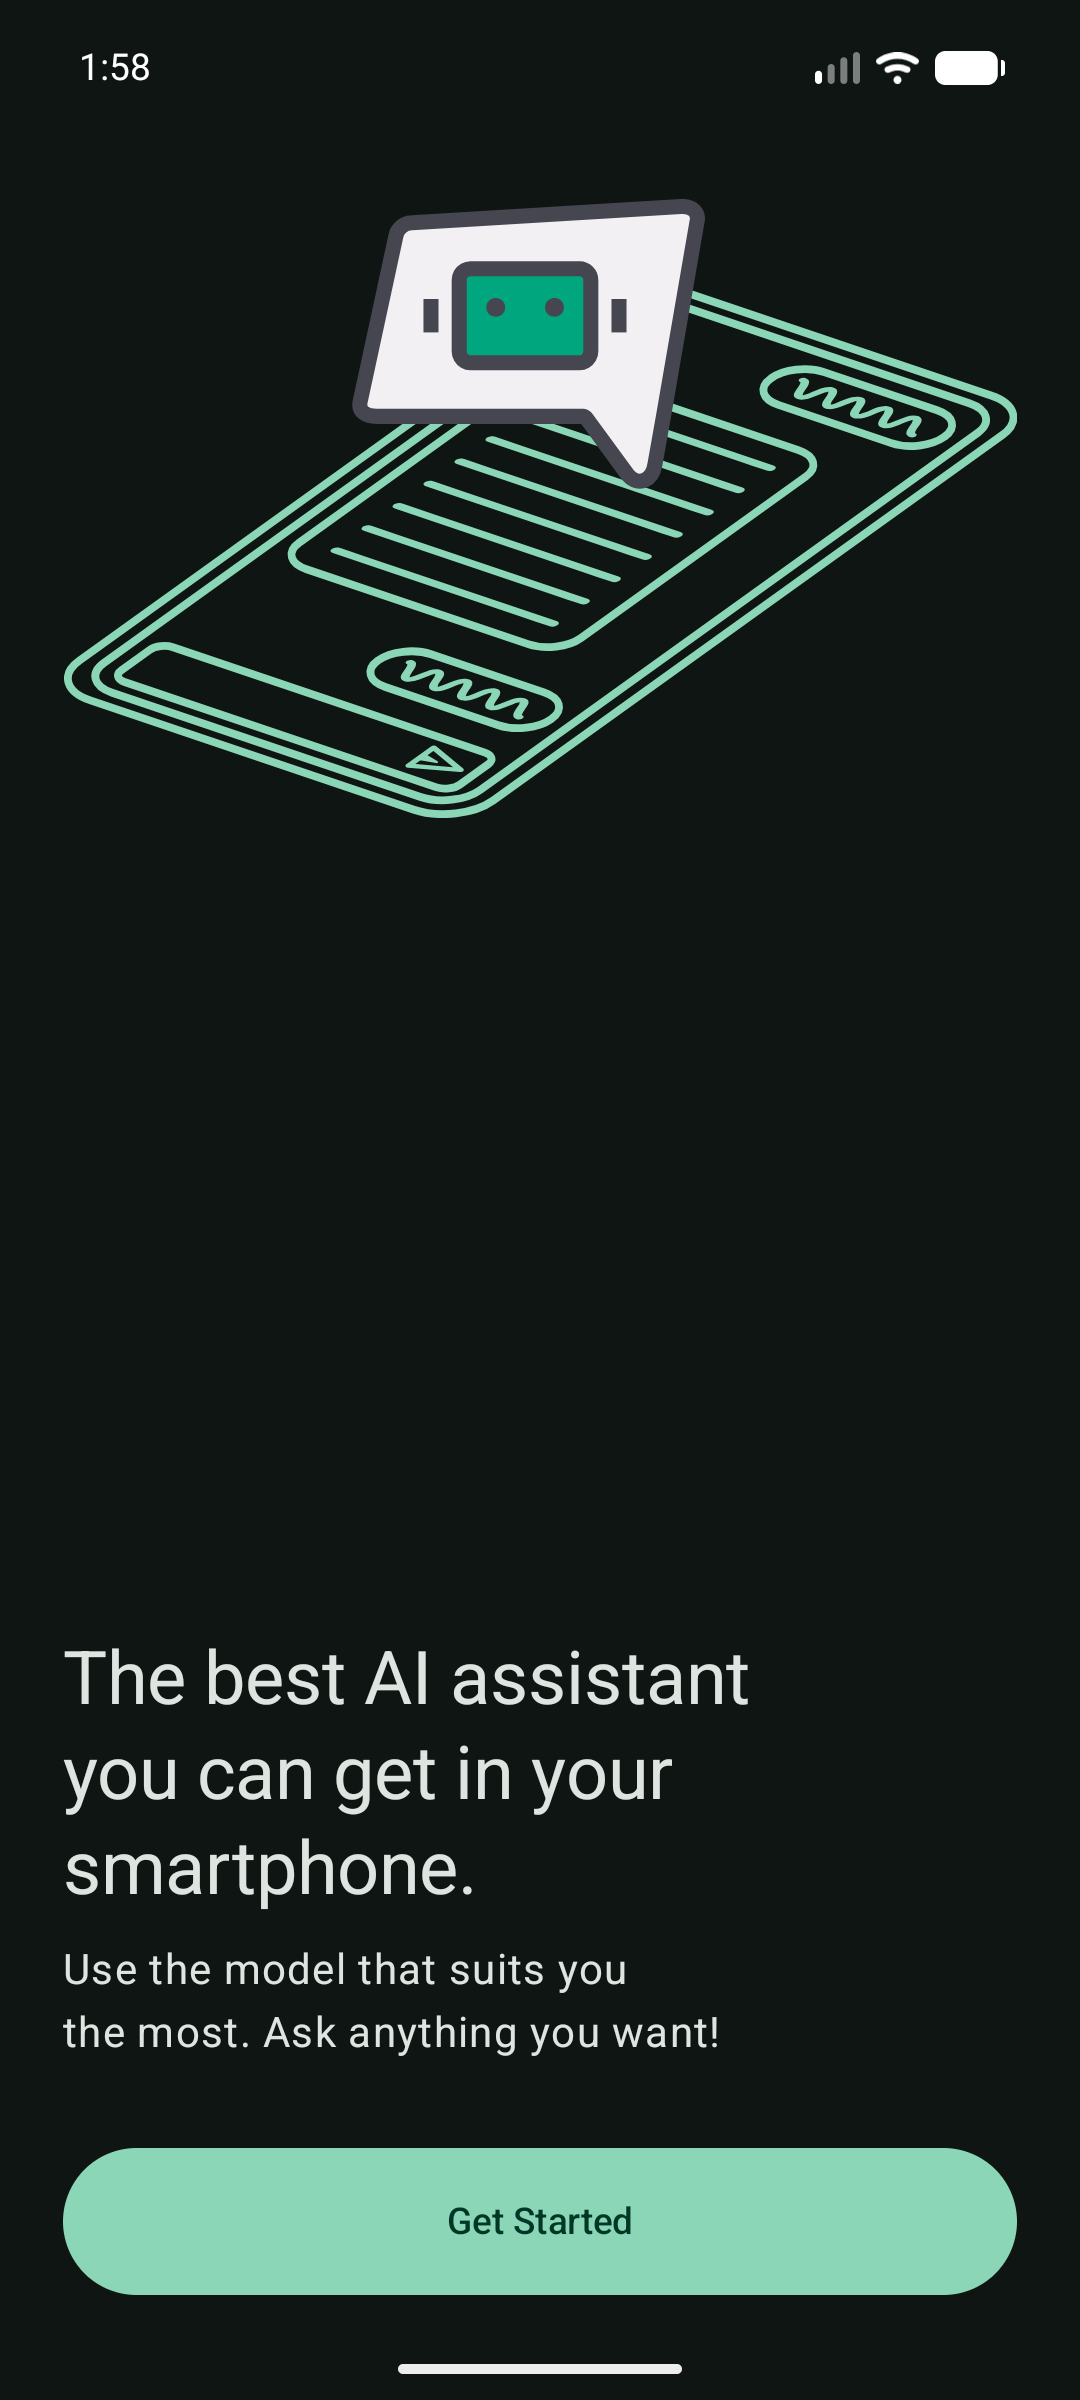
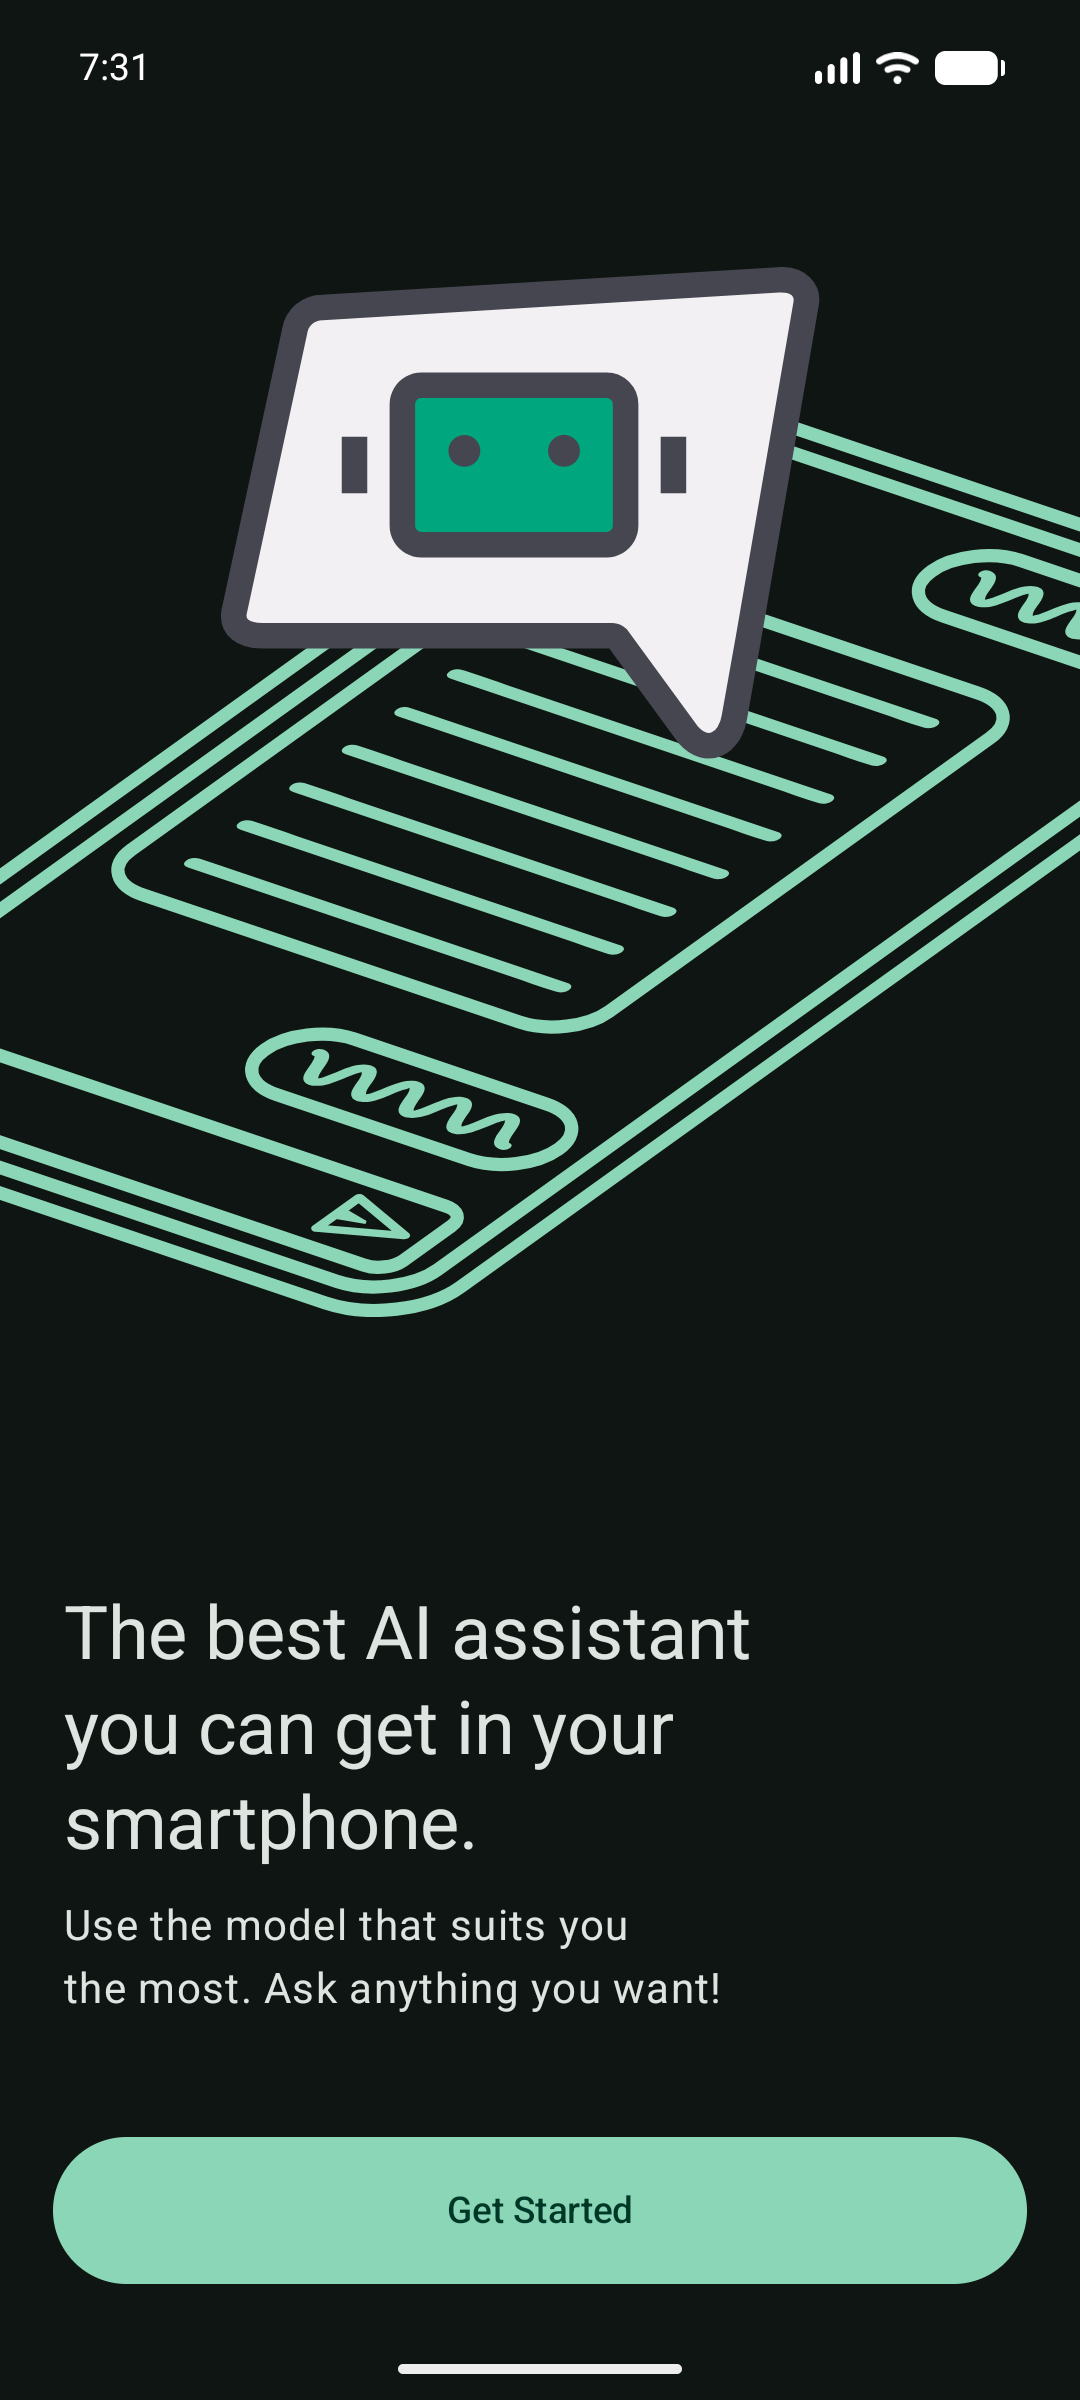
docs: refresh refinement screenshots

diff --git a/docs/superpowers/plans/2026-09-06-material3-feedback-refinement.md b/docs/superpowers/plans/2026-09-06-material3-feedback-refinement.md
@@ -1,0 +1,265 @@
+# Material 3 Feedback Refinement Implementation Plan
+
+> **For agentic workers:** REQUIRED SUB-SKILL: Use superpowers:subagent-driven-development (recommended) or superpowers:executing-plans to implement this plan task-by-task. Steps use checkbox (`- [ ]`) syntax for tracking.
+
+**Goal:** Apply the approved Start, splash, Home search, and Chat detail refinements to PR #327 and refresh its rendered evidence.
+
+**Architecture:** Keep the existing single-activity Compose architecture and edit the current presentation seams in place. Restore the Start layout locally, reuse Android day/night resources for splash branding, reuse the app's established Back icon, and split the assistant's process presentation from its stable final-answer region without changing stored timelines.
+
+**Tech Stack:** Kotlin 2.3.21, Jetpack Compose, Material 3, Android core-splashscreen, Compose UI tests, Gradle, adb/Android CLI.
+
+**Spec:** `docs/superpowers/specs/2026-09-06-material3-feedback-refinement-design.md`
+
+## Global Constraints
+
+- Work only in `.worktrees/material3-expressive-implementation` on `codex/material3-expressive-implementation`.
+- Preserve unrelated `.serena/project.yml`; never stage or revert it.
+- Add no dependency, route, database, repository, provider, or stored-timeline change.
+- Keep 48dp interactive targets and localized content descriptions.
+- Details is collapsed by default; answer and attachments render exactly once.
+- Known process items retain their recorded relative order; legacy order remains explicitly unavailable.
+- Use existing Material motion specs and keep one progress signal per operation.
+- Implementation and review subagents use `xai/grok-4.6` with reasoning effort `xhigh`.
+
+---
+
+### Task 1: Restore Start and retone the splash
+
+**Files:**
+- Modify: `app/src/main/kotlin/dev/chungjungsoo/gptmobile/presentation/ui/startscreen/StartScreen.kt`
+- Modify: `app/src/main/res/values/splash_window_background.xml`
+- Modify: `app/src/main/res/values-night/splash_window_background.xml`
+
+**Interfaces:**
+- Consumes: existing `PrimaryLongButton`, `GptMobileStartScreen`, starting theme, and platform night-mode synchronization.
+- Produces: the original Start layout plus light `#00A67D` and dark `#003828` splash-window resources.
+
+- [ ] **Step 1: Confirm the visual-only test boundary**
+
+Do not add a source-text or fixed-geometry test. Such a test would detect intentional redesign rather than broken behavior. Use the existing visible labels and tap behavior as the behavior contract, and verify this exact restoration through rendered screenshots.
+
+- [ ] **Step 2: Restore the original Start composition**
+
+Restore `StartScreen`, `StartScreenLogo`, and `WelcomeText` from `origin/main`. Because shared button padding was intentionally moved to callers in this branch, keep that shared component unchanged and call:
+
+```kotlin
+PrimaryLongButton(
+    modifier = Modifier.padding(20.dp),
+    onClick = onStartClick,
+    text = stringResource(R.string.get_started)
+)
+```
+
+- [ ] **Step 3: Apply the approved splash tones**
+
+Use the existing semantic resource in both qualifiers:
+
+```xml
+<!-- res/values/splash_window_background.xml -->
+<resources>
+    <color name="splash_window_background">@color/ic_gpt_mobile_background</color>
+</resources>
+```
+
+```xml
+<!-- res/values-night/splash_window_background.xml -->
+<resources>
+    <color name="splash_window_background">#003828</color>
+</resources>
+```
+
+Do not change the icon, `themes.xml`, `MainActivity`, or theme-mode synchronization.
+
+- [ ] **Step 4: Compile the task**
+
+Run: `./gradlew :app:compileDebugKotlin`
+
+Expected: `BUILD SUCCESSFUL`.
+
+- [ ] **Step 5: Commit only owned files**
+
+```bash
+git add app/src/main/kotlin/dev/chungjungsoo/gptmobile/presentation/ui/startscreen/StartScreen.kt app/src/main/res/values/splash_window_background.xml app/src/main/res/values-night/splash_window_background.xml
+git commit -m "fix: refine start and splash branding"
+```
+
+### Task 2: Distinguish Home search exit from query clearing
+
+**Files:**
+- Modify: `app/src/main/kotlin/dev/chungjungsoo/gptmobile/presentation/ui/home/HomeScreen.kt`
+- Create: `app/src/androidTest/kotlin/dev/chungjungsoo/gptmobile/presentation/ui/home/HomeScreenPresentationInstrumentedTest.kt`
+
+**Interfaces:**
+- Consumes: `HomeTopAppBar`, `R.string.go_back`, `R.string.clear`, and the existing `navigationOnClick`/`onSearchQueryChanged` callbacks.
+- Produces: a leading Back action and conditional trailing Clear action in search mode.
+
+- [ ] **Step 1: Write the failing Compose test**
+
+Create a test using `createComposeRule` and `GPTMobileTheme`. Render `HomeTopAppBar` with `isSearchMode = true` and `searchQuery = "Tokyo"`, then assert:
+
+```kotlin
+composeRule.onNodeWithContentDescription("Go back").assertExists()
+composeRule.onNodeWithContentDescription("Clear").assertExists()
+composeRule.onNodeWithContentDescription("Close").assertDoesNotExist()
+```
+
+The remaining parameters use inert callbacks, `isSelectionMode = false`, zero selected chats, and `TopAppBarDefaults.pinnedScrollBehavior()`.
+
+- [ ] **Step 2: Run the test and verify RED**
+
+Run:
+
+```bash
+./gradlew :app:connectedDebugAndroidTest -Pandroid.testInstrumentationRunnerArguments.class=dev.chungjungsoo.gptmobile.presentation.ui.home.HomeScreenPresentationInstrumentedTest
+```
+
+Expected: FAIL because search exit is currently announced and drawn as Close.
+
+- [ ] **Step 3: Make the minimal implementation**
+
+Reuse the icon already used throughout the app:
+
+```kotlin
+import androidx.compose.material.icons.automirrored.filled.ArrowBack
+
+Icon(
+    imageVector = Icons.AutoMirrored.Filled.ArrowBack,
+    contentDescription = stringResource(R.string.go_back)
+)
+```
+
+Change only the `isSearchMode` navigation icon. Keep selection mode Close and the text field's conditional trailing Clear X unchanged.
+
+- [ ] **Step 4: Run the focused test and compile**
+
+Run:
+
+```bash
+./gradlew :app:connectedDebugAndroidTest -Pandroid.testInstrumentationRunnerArguments.class=dev.chungjungsoo.gptmobile.presentation.ui.home.HomeScreenPresentationInstrumentedTest
+./gradlew :app:compileDebugKotlin
+```
+
+Expected: both commands pass.
+
+- [ ] **Step 5: Commit only owned files**
+
+```bash
+git add app/src/main/kotlin/dev/chungjungsoo/gptmobile/presentation/ui/home/HomeScreen.kt app/src/androidTest/kotlin/dev/chungjungsoo/gptmobile/presentation/ui/home/HomeScreenPresentationInstrumentedTest.kt
+git commit -m "fix: clarify Home search actions"
+```
+
+### Task 3: Put Chat process details before the final answer
+
+**Files:**
+- Modify: `app/src/main/kotlin/dev/chungjungsoo/gptmobile/presentation/ui/chat/ChatBubble.kt`
+- Modify: `app/src/androidTest/kotlin/dev/chungjungsoo/gptmobile/presentation/ui/chat/ChatMessagePresentationInstrumentedTest.kt`
+
+**Interfaces:**
+- Consumes: `AssistantTimelineItem`, `ThinkingBlock`, `ToolTraceBlock`, `QuietAssistantContent`, `DetailsButton`, and existing message-action callbacks.
+- Produces: a stable Details/process/answer/actions visual order with one answer rendering.
+
+- [ ] **Step 1: Change the existing test and verify RED**
+
+Rename `detailsSwapQuietAnswerForChronologicalNestedContent` to `expandedDetailsKeepProcessesAboveSingleAnswer`. Keep its deliberately interleaved fixture `THINKING, TEXT, TOOL`. Before expansion, assert one Answer. After tapping Details, assert one Answer and these top positions:
+
+```kotlin
+val detailsTop = composeRule.onNodeWithText("Details").fetchSemanticsNode().boundsInRoot.top
+val thinkingTop = composeRule.onNodeWithText("View thinking process").fetchSemanticsNode().boundsInRoot.top
+val toolTop = composeRule.onNodeWithContentDescription("Expand tool trace").fetchSemanticsNode().boundsInRoot.top
+val answerTop = composeRule.onNodeWithText("Answer").fetchSemanticsNode().boundsInRoot.top
+
+assertTrue(detailsTop < thinkingTop)
+assertTrue(thinkingTop < toolTop)
+assertTrue(toolTop < answerTop)
+```
+
+Run:
+
+```bash
+./gradlew :app:connectedDebugAndroidTest -Pandroid.testInstrumentationRunnerArguments.class=dev.chungjungsoo.gptmobile.presentation.ui.chat.ChatMessagePresentationInstrumentedTest
+```
+
+Expected: FAIL because the current Details row is after the answer and the interleaved tool appears after the answer.
+
+- [ ] **Step 2: Reorder the assistant presentation**
+
+In `OpponentChatBubble`:
+
+1. Place a row containing only `DetailsButton` before the animated content when details exist.
+2. Keep `AnimatedContent`, but make its expanded branch render process content followed by `QuietAssistantContent`; its collapsed branch renders only `QuietAssistantContent`.
+3. Keep a separate trailing row for `MessageActionsButton` after the animated content.
+4. Keep inline Retry after message actions.
+
+Rename the private timeline renderer to `AssistantProcessContent` and make `TEXT`, `NOTICE`, and `LEGACY_ORDER` branches no-ops. It still iterates the stored timeline, so thinking and tool items retain their recorded relative order.
+
+Split the private legacy renderer into process-only content: order-unavailable notice, thinking, and tool trace. The shared `QuietAssistantContent` owns final text and attachments for both known and legacy timelines.
+
+For streaming, keep the final-answer indicator on the answer once answer text exists. When expanded before answer text exists, let the process block own that indicator and suppress a duplicate dot in the empty answer region.
+
+- [ ] **Step 3: Run the focused Chat tests**
+
+Run:
+
+```bash
+./gradlew :app:testDebugUnitTest --tests '*ToolTraceBlockTest' --tests '*AssistantTimelineTest' --tests '*AgentRunStatusBlockTest'
+./gradlew :app:connectedDebugAndroidTest -Pandroid.testInstrumentationRunnerArguments.class=dev.chungjungsoo.gptmobile.presentation.ui.chat.ChatMessagePresentationInstrumentedTest
+./gradlew :app:compileDebugKotlin
+```
+
+Expected: all commands pass; the Compose test still verifies nested thinking/tool expansion and missing tool details.
+
+- [ ] **Step 4: Commit only owned files**
+
+```bash
+git add app/src/main/kotlin/dev/chungjungsoo/gptmobile/presentation/ui/chat/ChatBubble.kt app/src/androidTest/kotlin/dev/chungjungsoo/gptmobile/presentation/ui/chat/ChatMessagePresentationInstrumentedTest.kt
+git commit -m "fix: place Chat details before answers"
+```
+
+### Task 4: Verify and refresh PR evidence
+
+**Files:**
+- Modify: `docs/screenshots/material3-expressive/01-start.png`
+- Modify: `docs/screenshots/material3-expressive/13-start-dark.png`
+- Modify: `docs/screenshots/material3-expressive/28-home-search.png`
+- Modify: `docs/screenshots/material3-expressive/29-chat-quiet.png`
+- Modify: `docs/screenshots/material3-expressive/31-chat-details.png`
+- Modify: `docs/screenshots/material3-expressive/32-chat-tool-trace.png`
+- Modify: `docs/screenshots/material3-expressive/34-splash-dark.png`
+- Modify: `docs/screenshots/material3-expressive/35-splash-light.png`
+
+**Interfaces:**
+- Consumes: final debug APK, existing emulator/demo-data workflow, and PR #327's current screenshot tables.
+- Produces: current rendered evidence and a PR body whose image URLs point to the final screenshot commit.
+
+- [ ] **Step 1: Run the full local verification gate**
+
+Run sequentially:
+
+```bash
+./gradlew :app:testDebugUnitTest
+./gradlew :app:lintDebug
+./gradlew :app:assembleDebug
+./gradlew :app:connectedDebugAndroidTest -Pandroid.testInstrumentationRunnerArguments.class=dev.chungjungsoo.gptmobile.presentation.ui.home.HomeScreenPresentationInstrumentedTest,dev.chungjungsoo.gptmobile.presentation.ui.chat.ChatMessagePresentationInstrumentedTest
+```
+
+Expected: all commands pass with zero failures.
+
+- [ ] **Step 2: Capture affected states**
+
+Install the verified APK on the existing emulator. Capture both Start themes, both cold-start splash themes, populated Home search with a non-empty query, collapsed Chat details, expanded Chat details, and expanded tool trace. Confirm visually that controls are reachable, labels are not clipped, the answer appears once, and the two search actions have distinct icons.
+
+- [ ] **Step 3: Commit screenshot and planning evidence**
+
+Stage only the eight screenshots plus this plan and its spec, then commit:
+
+```bash
+git commit -m "docs: refresh refinement screenshots"
+```
+
+- [ ] **Step 4: Push and refresh the PR body**
+
+Push `codex/material3-expressive-implementation`. Replace the immutable screenshot commit in all PR image URLs with the final screenshot commit so the five existing horizontal tables continue rendering all 38 images.
+
+- [ ] **Step 5: Verify the live PR**
+
+Read PR #327 back through GitHub's API. Confirm exactly one Screenshots heading, 38 image elements, five tables, and no unresolved review thread introduced by this change. Report current checks without claiming pending checks are green.

diff --git a/docs/superpowers/specs/2026-09-06-material3-feedback-refinement-design.md b/docs/superpowers/specs/2026-09-06-material3-feedback-refinement-design.md
@@ -1,0 +1,42 @@
+# Material 3 Feedback Refinement Design
+
+## Goal
+
+Apply the approved follow-up feedback to the open Material 3 Expressive redesign without changing routes, data models, provider behavior, or the rest of the approved UI.
+
+## Approved decisions
+
+### Get Started
+
+- Restore the original Start screen composition from `origin/main`: the 400dp hero, 50dp top inset, original welcome spacing, and original content scale.
+- Preserve the current shared `PrimaryLongButton` contract. Recreate the original 20dp button inset only at the Start screen call site so redesigned setup screens do not receive unintended double padding.
+
+### Splash
+
+- Light mode uses the app's signature green `#00A67D` for the full splash window.
+- Dark mode uses the approved deep brand green `#003828` so launch remains branded without a bright flash.
+- Keep the existing centered splash icon and `UiModeManager` synchronization. The saved Light, Dark, or System selection must continue selecting the matching Android resource qualifier before app content appears.
+
+### Home search
+
+- Search mode uses the established auto-mirrored Back arrow on the leading side to exit search.
+- The trailing X remains only when the query is non-empty and clears the query.
+- Accessible names remain distinct: `Go back` and `Clear`.
+
+### Chat details
+
+- Details remains collapsed by default and visually low emphasis.
+- Put the Details disclosure before the final answer.
+- When expanded, render recorded thinking and tool items after the disclosure and before the answer. Preserve the recorded order among those process items, but do not repeat timeline text fragments inside Details.
+- Render the final answer and attachments exactly once in a stable region below the process details.
+- Keep message actions and inline Retry after the final answer.
+- Legacy records keep the existing order-unavailable notice; no chronology is invented.
+- Keep the existing expansion and icon motion specs and the existing progress ownership rules.
+
+## Verification
+
+- Add one Home Compose test that distinguishes Back from Clear.
+- Update the existing Chat Compose regression test so it fails unless Details, thinking, tools, and the single answer appear in that visual order.
+- Run unit tests, lint, assembly, and the focused connected tests.
+- Capture updated light/dark Start and splash states, Home search, and collapsed/expanded Chat detail states on the existing emulator.
+- Replace the affected screenshots in the PR's horizontal tables and point the PR description at the final screenshot commit.
